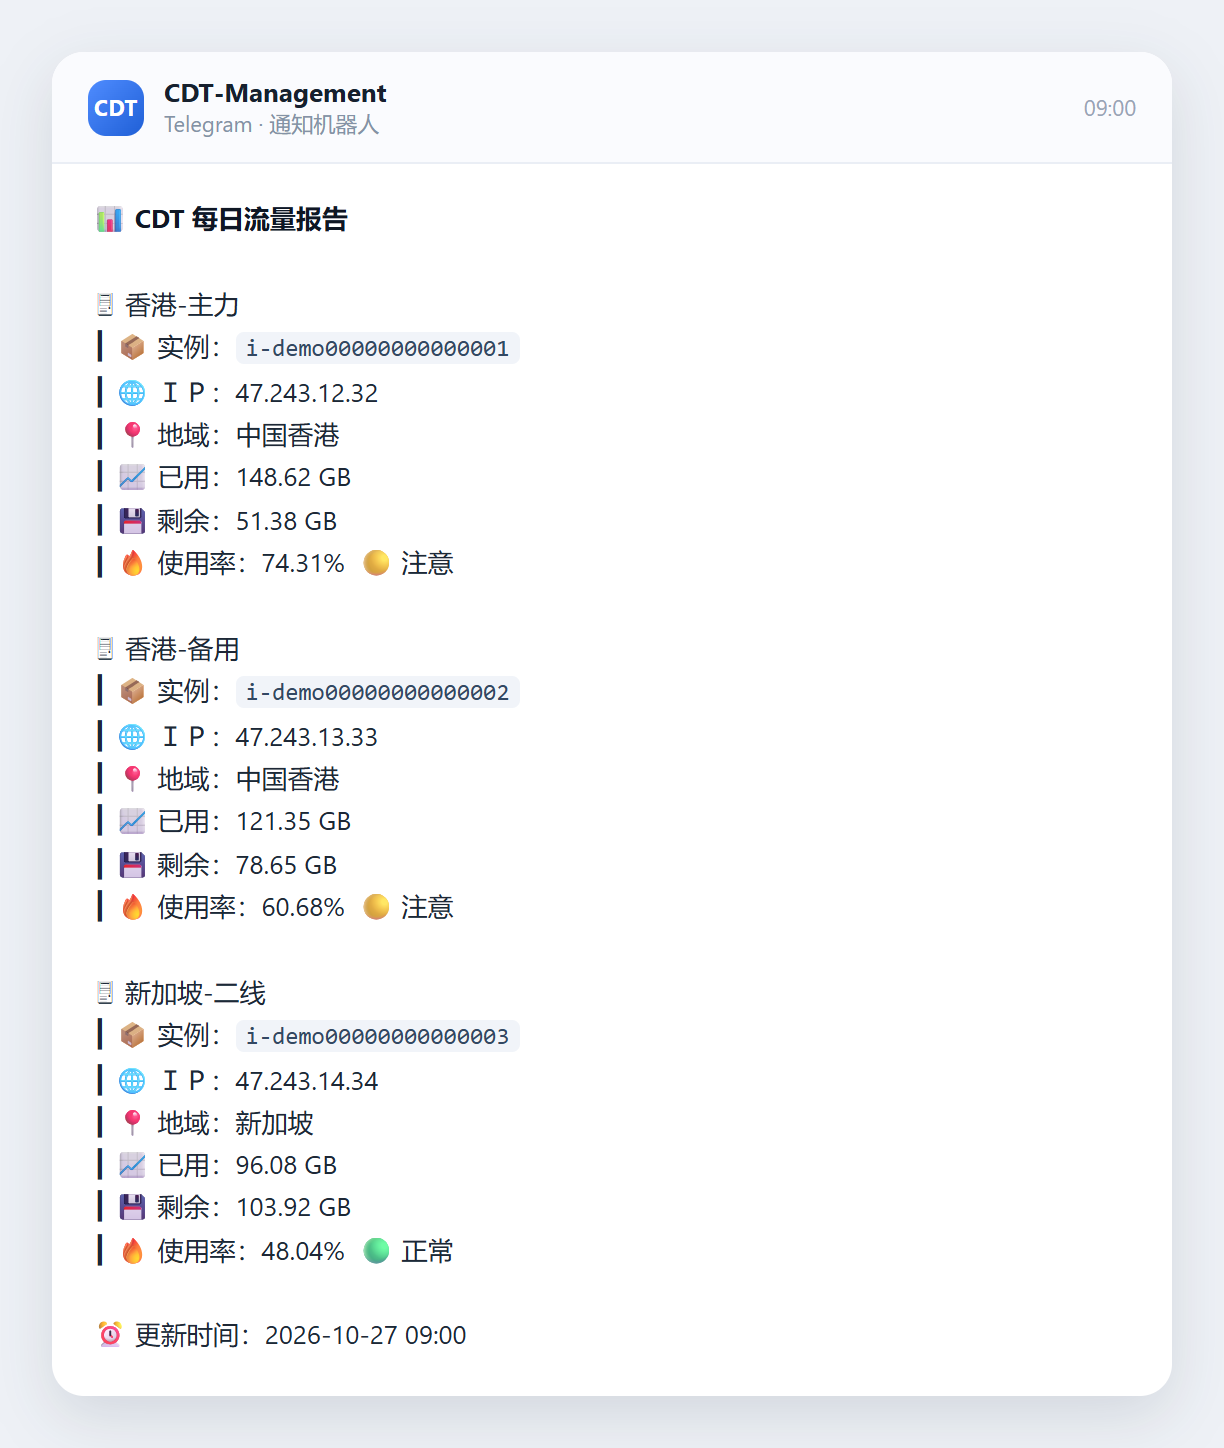
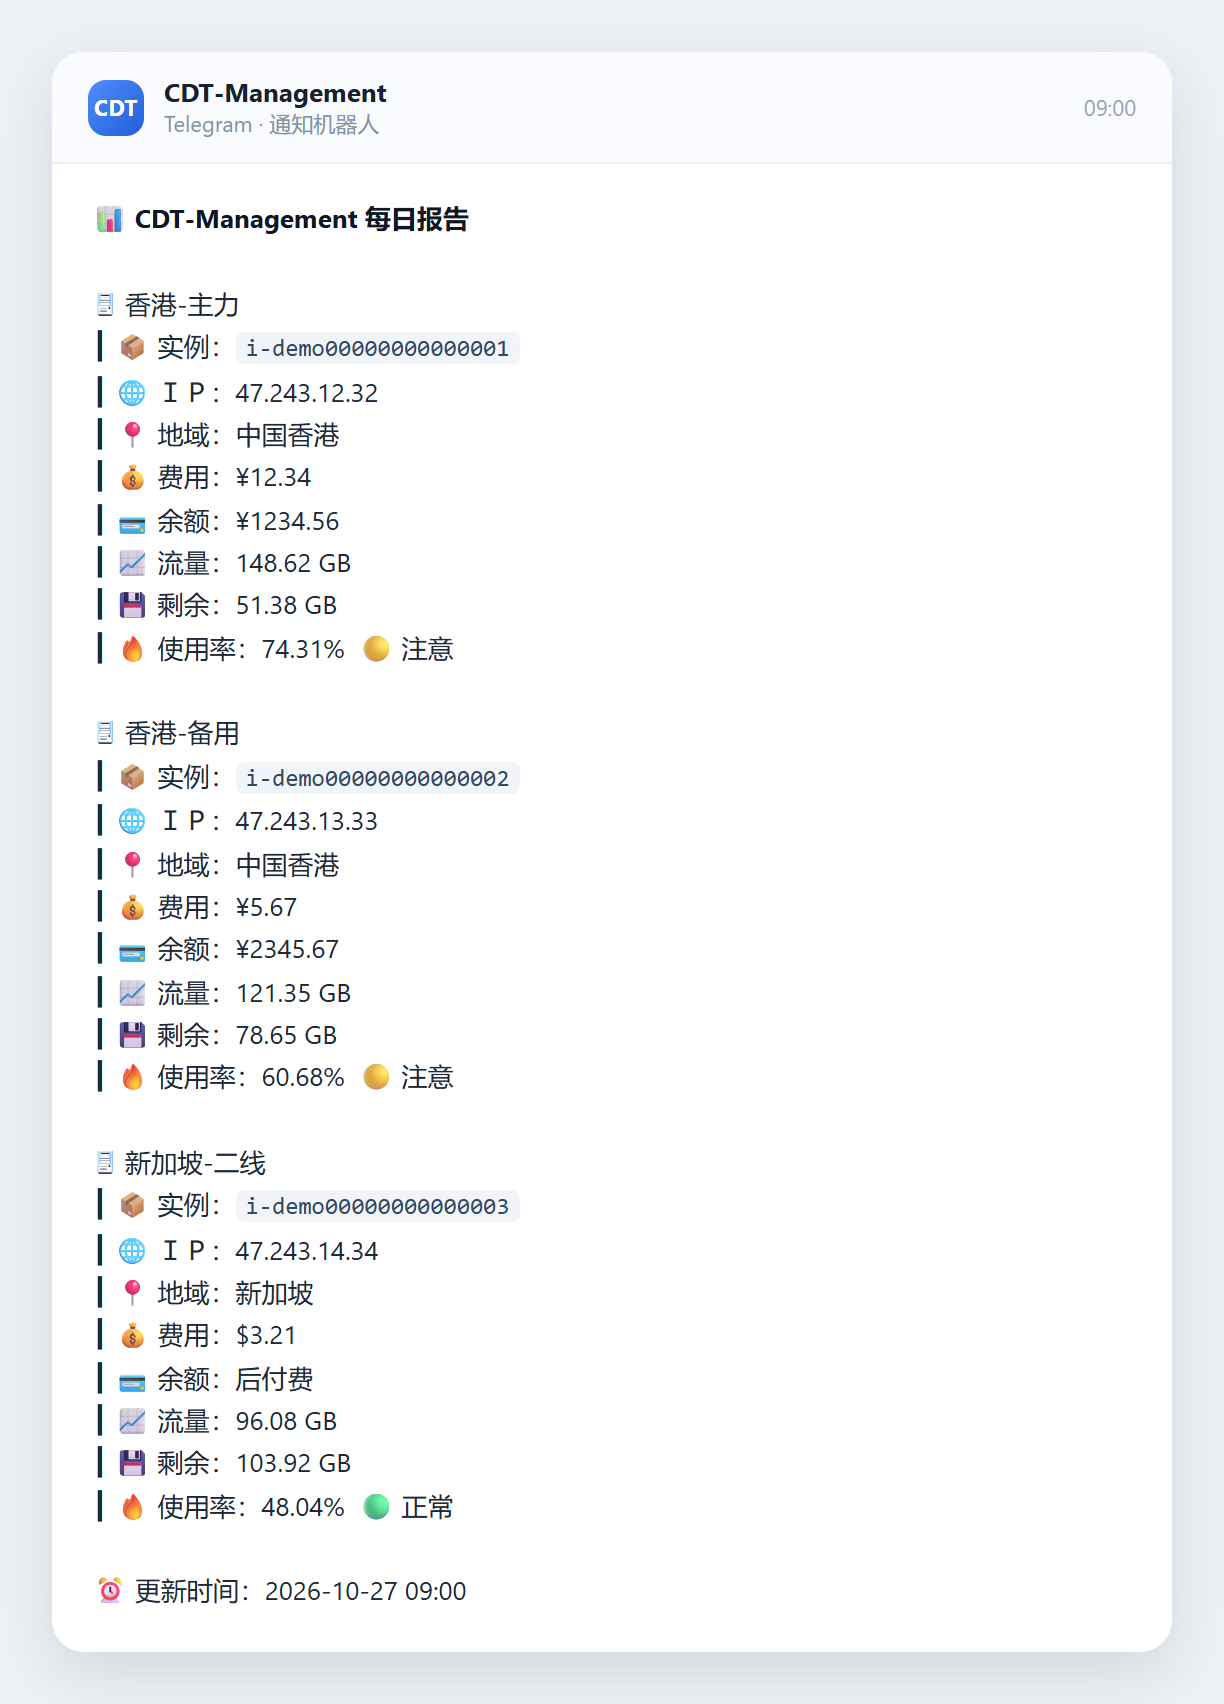
feat: 每日报告新增费用与余额，国际站余额显示后付费
- 标题改为「CDT-Management 每日报告」
- 每台机器在地域与流量之间插入「费用」「余额」两行，字段名统一两字
- 流量行由「已用」改为「流量」，去掉 /配额
- 费用/余额金额按 billing_currency 映射货币符号（CNY→¥、USD→$ 等）
- 国际站后付费无余额概念：billing 落 NULL，通知与网页卡片统一显示「后付费」
- 网页服务器卡片余额展示同步（国内站金额 / 国际站后付费）

Changed region(s): [[0.0621, 0.1243, 0.9314, 0.9945], [0.0621, 0.0311, 0.3105, 0.0932], [0.8693, 0.0622, 0.9314, 0.0932]]

diff --git a/web/src/components/ServersView.tsx b/web/src/components/ServersView.tsx
@@ -244,6 +244,7 @@ export default function ServersView({
 
                 <CostRow
                   billing={server.billing}
+                  site={server.site}
                   busy={billingId === server.id}
                   onRefresh={() => onBilling(server)}
                 />
@@ -408,6 +409,7 @@ function ServerTable({
                 <td className="server-table-cost" data-label="费用">
                   <CostRow
                     billing={server.billing}
+                    site={server.site}
                     busy={billingId === server.id}
                     onRefresh={() => onBilling(server)}
                     compact
@@ -510,14 +512,22 @@ function money(value: number | null, currency: string): string {
   return `${sign}${value.toFixed(2)}`
 }
 
+/** 国际站后付费没有「余额」概念，显示「后付费」而不是误导人的 ¥0.00。 */
+function balanceText(billing: Billing, site: Server['site']): string {
+  if (site === 'international') return '后付费'
+  return money(billing.balance, billing.currency)
+}
+
 /** 本月账单 + 账户余额。数据来自 BSS，后台每 30 分钟刷一次，这里只负责展示。 */
 function CostRow({
   billing,
+  site,
   busy,
   onRefresh,
   compact = false,
 }: {
   billing: Billing
+  site: Server['site']
   busy: boolean
   onRefresh: () => void
   compact?: boolean
@@ -543,8 +553,8 @@ function CostRow({
         </span>
         <span className="cost-item">
           <span className="cost-key">余额</span>
-          <b className={billing.balance === null ? 'dim' : ''}>
-            {money(billing.balance, billing.currency)}
+          <b className={site !== 'international' && billing.balance === null ? 'dim' : ''}>
+            {balanceText(billing, site)}
           </b>
         </span>
         {failed && (
@@ -578,8 +588,8 @@ function CostRow({
       </span>
       <span className="cost-item" title={hint}>
         <span className="cost-key">余额</span>
-        <b className={billing.balance === null ? 'dim' : ''}>
-          {money(billing.balance, billing.currency)}
+        <b className={site !== 'international' && billing.balance === null ? 'dim' : ''}>
+          {balanceText(billing, site)}
         </b>
       </span>
       {failed && (

diff --git a/app/messages.py b/app/messages.py
@@ -520,6 +520,40 @@ def shift_error(
     )
 
 
+CURRENCY_SIGNS = {
+    "CNY": "¥",
+    "USD": "$",
+    "HKD": "HK$",
+    "JPY": "JP¥",
+    "EUR": "€",
+    "GBP": "£",
+}
+
+
+def _currency_sign(currency: str | None) -> str:
+    """货币代码 → 符号。清单外的原样带空格（如「SGD 12.34」）。"""
+    currency = str(currency or "").strip().upper()
+    return CURRENCY_SIGNS.get(currency, f"{currency} " if currency else "")
+
+
+def _money(value: Any, currency: str | None) -> str:
+    """金额 → `¥12.34`；查不到给「—」。"""
+    if value is None:
+        return "—"
+    try:
+        amount = float(value)
+    except (TypeError, ValueError):
+        return "—"
+    return f"{_currency_sign(currency)}{amount:.2f}"
+
+
+def _balance_text(server: dict[str, Any]) -> str:
+    """余额：国际站后付费没有余额概念，写「后付费」；国内站写金额。"""
+    if str(server.get("site") or "") == "international":
+        return "后付费"
+    return _money(server.get("balance_amount"), server.get("billing_currency"))
+
+
 def report_block(server: dict[str, Any]) -> str:
     """脚本里的 build_report_block。额度取每台自己的配额，没填就按 200GB。"""
     used = _used(server)
@@ -533,7 +567,9 @@ def report_block(server: dict[str, Any]) -> str:
             f"┃ 📦 实例：<code>{_instance(server)}</code>",
             f"┃ 🌐 ＩＰ：{_ip(server)}",
             f"┃ 📍 地域：{_region(server)}",
-            f"┃ 📈 已用：{used:.2f} GB",
+            f"┃ 💰 费用：{_money(server.get('monthly_cost'), server.get('billing_currency'))}",
+            f"┃ 💳 余额：{_balance_text(server)}",
+            f"┃ 📈 流量：{used:.2f} GB",
             f"┃ 💾 剩余：{remain:.2f} GB",
             f"┃ 🔥 使用率：{percent:.2f}%  {color}",
         ]
@@ -541,11 +577,11 @@ def report_block(server: dict[str, Any]) -> str:
 
 
 def daily_report(servers: list[dict[str, Any]], timestamp: str) -> notify.Message:
-    """📊 每日流量报告。"""
+    """📊 每日报告。"""
     return _message(
         "daily_report",
-        "📊 <b>CDT 每日流量报告</b>",
-        "CDT 每日流量报告",
+        "📊 <b>CDT-Management 每日报告</b>",
+        "CDT-Management 每日报告",
         "\n\n".join(report_block(s) for s in servers) + f"\n\n⏰ 更新时间：{timestamp}",
     )
 

diff --git a/scripts/test_messages.py b/scripts/test_messages.py
@@ -383,15 +383,31 @@ class OtherReports(unittest.TestCase):
         )
 
     def test_daily_report(self):
-        message = messages.daily_report([A, B], "2026-10-26 23:58")
+        a = {
+            **A,
+            "site": "china",
+            "monthly_cost": 12.34,
+            "balance_amount": 1234.56,
+            "billing_currency": "CNY",
+        }
+        b = {
+            **B,
+            "site": "international",
+            "monthly_cost": 3.21,
+            "balance_amount": None,
+            "billing_currency": "USD",
+        }
+        message = messages.daily_report([a, b], "2026-10-26 23:58")
         expected = (
-            "📊 <b>CDT 每日流量报告</b>\n"
+            "📊 <b>CDT-Management 每日报告</b>\n"
             "\n"
             "🖥 AliCloud-CDT-AM\n"
             "┃ 📦 实例：<code>i-aaa111</code>\n"
             "┃ 🌐 ＩＰ：198.51.100.1\n"
             "┃ 📍 地域：中国香港\n"
-            "┃ 📈 已用：12.00 GB\n"
+            "┃ 💰 费用：¥12.34\n"
+            "┃ 💳 余额：¥1234.56\n"
+            "┃ 📈 流量：12.00 GB\n"
             "┃ 💾 剩余：188.00 GB\n"
             "┃ 🔥 使用率：6.00%  🟢 正常\n"
             "\n"
@@ -399,7 +415,9 @@ class OtherReports(unittest.TestCase):
             "┃ 📦 实例：<code>i-bbb222</code>\n"
             "┃ 🌐 ＩＰ：198.51.100.2\n"
             "┃ 📍 地域：中国香港\n"
-            "┃ 📈 已用：190.00 GB\n"
+            "┃ 💰 费用：$3.21\n"
+            "┃ 💳 余额：后付费\n"
+            "┃ 📈 流量：190.00 GB\n"
             "┃ 💾 剩余：10.00 GB\n"
             "┃ 🔥 使用率：95.00%  🔴 危险\n"
             "\n"

diff --git a/app/billing.py b/app/billing.py
@@ -85,9 +85,14 @@ def refresh_server(server_id: int, *, force: bool = False) -> dict[str, Any] | N
 
     try:
         wallet = aliyun.get_account_balance(server, force=force)
-        balance = float(wallet.get("amount") or 0)
         currency = str(wallet.get("currency") or "")
         detected_site = detected_site or str(wallet.get("site") or "")
+        # 国际站是后付费（信用额度扣款），没有「账户余额」这个概念，接口恒返回 0，
+        # 落库成 NULL，展示层据此显示「后付费」，避免出现误导人的 ¥0.00。
+        if repo.normalize_site(server.get("site")) == "international":
+            balance = None
+        else:
+            balance = float(wallet.get("amount") or 0)
     except Exception as exc:  # noqa: BLE001
         errors.append(str(exc))
         log.warning("账户余额查询失败 server=%s: %s", server_id, exc)

diff --git a/scripts/notify_shots.py b/scripts/notify_shots.py
@@ -228,8 +228,15 @@ SHOTS = [
     ),
     (
         "24-notify-daily",
-        "每日流量报告",
-        messages.daily_report([MAIN, BACKUP, THIRD], "2026-10-27 09:00"),
+        "每日报告",
+        messages.daily_report(
+            [
+                {**MAIN, "site": "china", "monthly_cost": 12.34, "balance_amount": 1234.56, "billing_currency": "CNY"},
+                {**BACKUP, "site": "china", "monthly_cost": 5.67, "balance_amount": 2345.67, "billing_currency": "CNY"},
+                {**THIRD, "site": "international", "monthly_cost": 3.21, "balance_amount": None, "billing_currency": "USD"},
+            ],
+            "2026-10-27 09:00",
+        ),
         "09:00",
     ),
 ]
